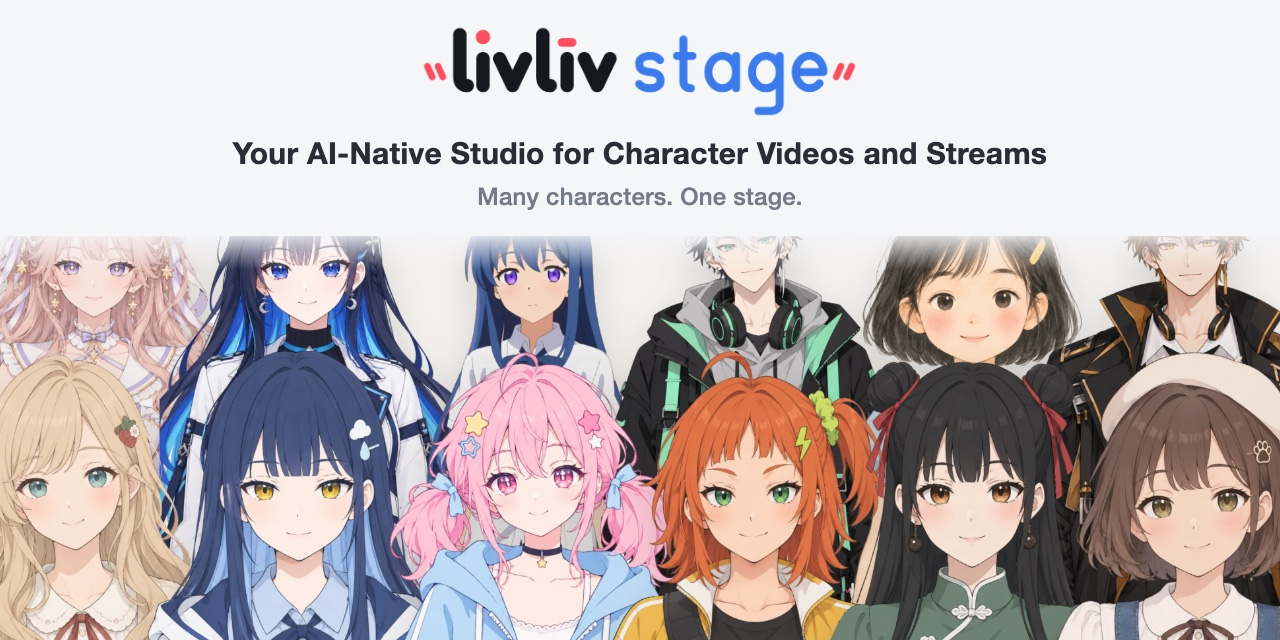
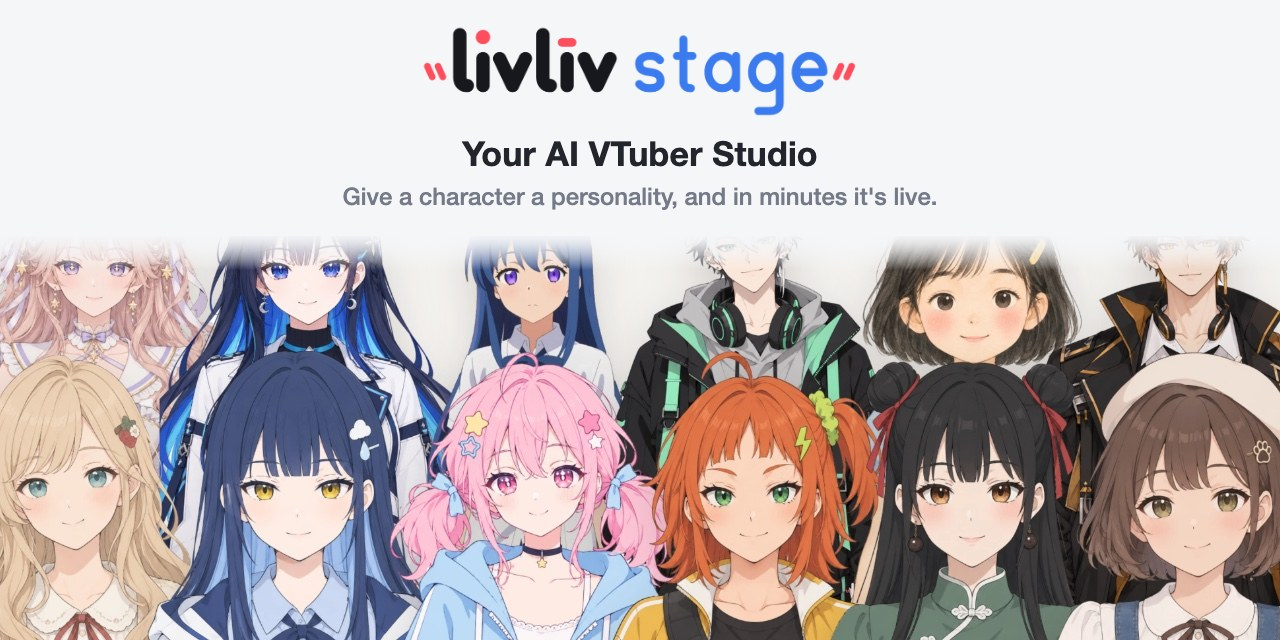
livliv.ai/stage's page description and link preview say AI VTuber studio, as the READMEs do

diff --git a/stage/vite.config.ts b/stage/vite.config.ts
@@ -6,11 +6,11 @@ const api = `http://127.0.0.1:${process.env.LM_API_PORT || 8000}`
 // livliv.ai/stage's build (scripts/build-site.mjs): the page's description and link preview
 const site = process.env.VITE_STAGE_HOST === 'livliv'
 const META = `
-    <meta name="description" content="LivLiv Stage, your AI-native studio for character videos and streams. Many characters. One stage. Face tracking, conversations, recording and OBS output, in your browser. Open source." />
+    <meta name="description" content="LivLiv Stage, your AI VTuber studio. Give a character a personality, and in minutes it's chatting with you or streaming live. Or play it yourself. In your browser, open source." />
     <meta property="og:type" content="website" />
     <meta property="og:site_name" content="LivLiv" />
     <meta property="og:title" content="LivLiv Stage" />
-    <meta property="og:description" content="Your AI-Native Studio for Character Videos and Streams. Many characters. One stage." />
+    <meta property="og:description" content="Your AI VTuber Studio. Give a character a personality, and in minutes it's live." />
     <meta property="og:url" content="https://livliv.ai/stage/" />
     <meta property="og:image" content="https://livliv.ai/stage/og.jpg" />
     <meta name="twitter:card" content="summary_large_image" />
